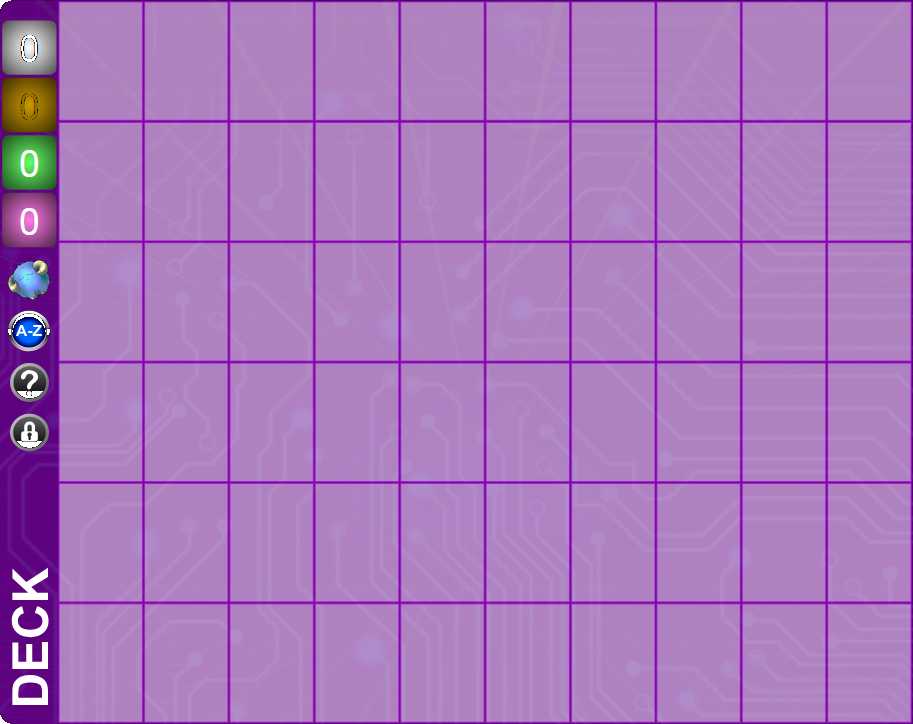
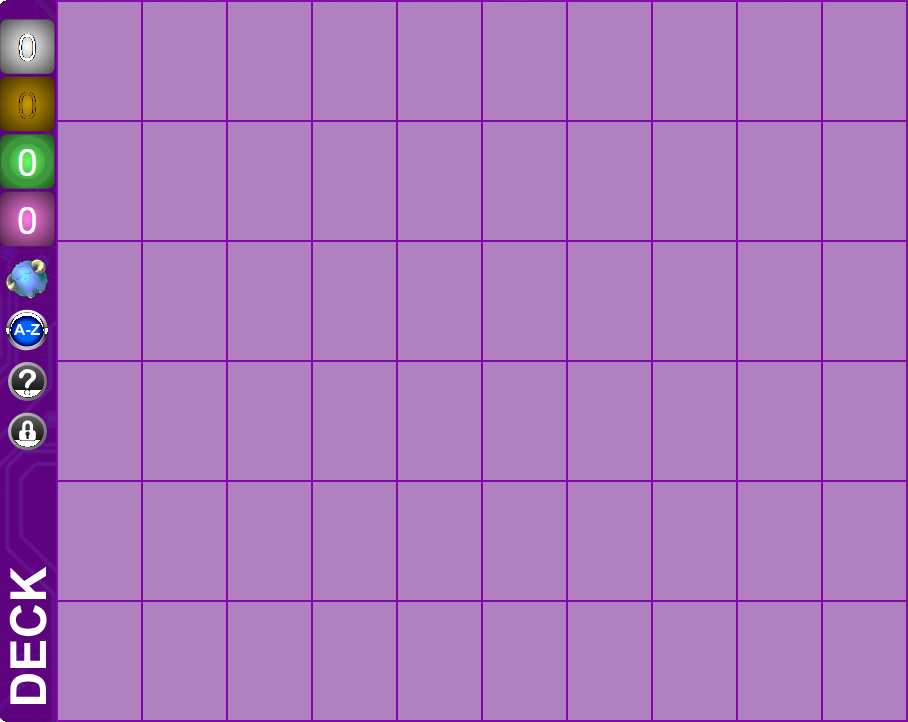
add deck viewer interaction and rework grid placement

diff --git a/main.py b/main.py
@@ -130,6 +130,9 @@ def resize_card(surf, new_dim_preset):
     if new_dim_preset == 'viewer normal':
         new_width = 83
         new_height = 118
+    elif new_dim_preset == 'viewer small':
+        new_width = 54
+        new_height = 78
 
     resized_surf = pg.transform.smoothscale(surf, (new_width, new_height))
     return resized_surf
@@ -230,11 +233,18 @@ class App:
                                 # The image is already cached in the get_small_card_image function
                                 has_api_been_called = True # Set the flag to True to avoid letting the program sleep if the image is already cached
                             
-                            if is_image_already_cached(dimensions='viewer normal', card_id=line):
-                                card_image = get_cached_image(dimensions='viewer normal', card_id=line)
+                            if current_portion == 0: # If the current portion is the main deck
+                                if is_image_already_cached(dimensions='viewer normal', card_id=line):
+                                    card_image = get_cached_image(dimensions='viewer normal', card_id=line)
+                                else:
+                                    card_image = resize_card(card_image, new_dim_preset='viewer normal') # Resize the card image because the small images are still too large
+                                    cache_image(card_image, dimensions='viewer normal', image_type='pygame surface', card_id=line) # Cache the resized image 
+                            
                             else:
-                                card_image = resize_card(card_image, new_dim_preset='viewer normal') # Resize the card image because the small images are still too large
-                                cache_image(card_image, dimensions='viewer normal', image_type='pygame surface', card_id=line) # Cache the resized image 
+                                if is_image_already_cached(dimensions='viewer small', card_id=line):
+                                    card_image = get_cached_image(dimensions='viewer small', card_id=line)
+                                else:
+                                    card_image = resize_card(card_image, new_dim_preset='viewer small')
                             
                             self.current_deck_sprites[current_portion].append(card_image)  # Add the card image to the current portion
                         except Exception as e:

diff --git a/logic/states/deck_builder.py b/logic/states/deck_builder.py
@@ -30,21 +30,23 @@ def draw_deck(game):
     game.screen.blit(game.card_search_sprite, game.card_search_rect)
 
     # Draw the main deck
-    main_deck_origin_x, main_deck_origin_y = game.main_viewer_rect.topleft[0] + 59, game.main_viewer_rect.topleft[1] + 2
-    x, y = main_deck_origin_x, main_deck_origin_y
+    x, y = game.main_viewer_rect.topleft[0] + 58, game.main_viewer_rect.topleft[1] + 2
 
-    for i, card in enumerate(game.current_deck_sprites[0]):  # dimensions of viewer normal card = (83, 118)
-        x = main_deck_origin_x + (i % 10) * (83 + 3)
-        y = main_deck_origin_y + (i // 10) * (118 + 2)
+    for i, card in enumerate(game.current_deck_sprites[0]):  # dimensions of viewer normal card = (82, 117)
 
         game.screen.blit(card, (x, y))
 
+        x += 83 + 2 # 83 is the width of the card, 2 is the horizontal padding
+        if i % 10 == 9:
+            x = game.main_viewer_rect.topleft[0] + 58
+            y += 118 + 2 # 118 is the height of the card, 3 is the vertical padding
 
     # Draw the side deck
-    side_deck_origin_x, side_deck_origin_y = game.side_viewer_rect.topleft[0] + 43, game.side_viewer_rect.topleft[1] + 21
+    x, y = game.side_viewer_rect.topleft[0] + 44, game.side_viewer_rect.topleft[1] + 22
 
-    for i, card in enumerate(game.current_deck_sprites[2]): #dimensions of extra small card = (80, 117)
-        x = side_deck_origin_x + 3 + (i  * 80)
-        y = side_deck_origin_y
-
+    for i, card in enumerate(game.current_deck_sprites[2]): #dimensions of extra small card = (54, 78)
         game.screen.blit(card, (x, y))
+        
+        x += 54 + 2 # 54 is the width of the card, 2 is the horizontal padding
+
+        
